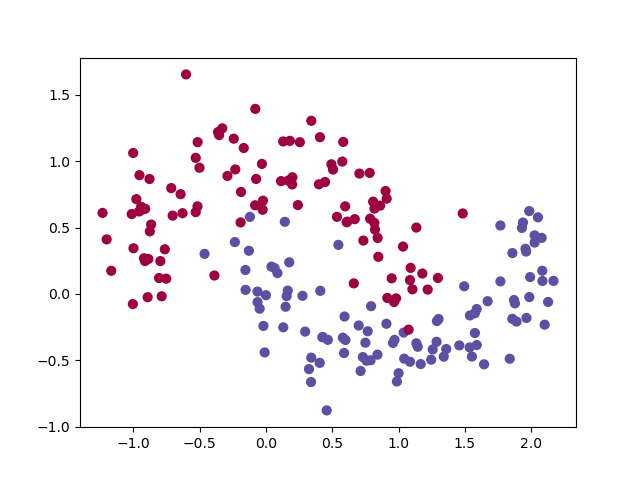
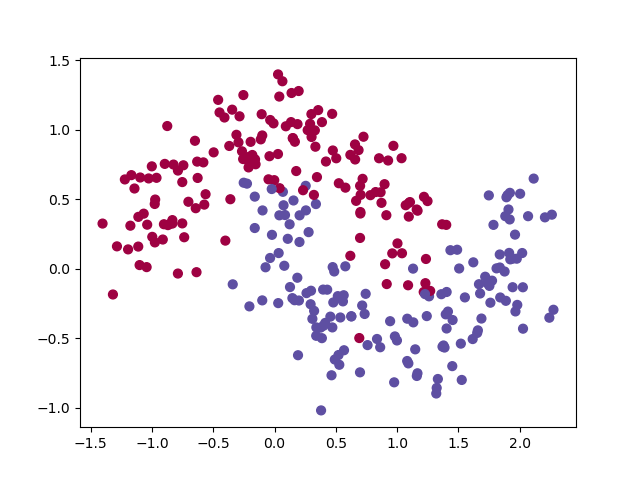
已经完成基础分类的代码

diff --git a/SimpleNetWork/BinaryClassificationNetWork.py b/SimpleNetWork/BinaryClassificationNetWork.py
@@ -3,13 +3,16 @@
 import matplotlib.pyplot as plt
 from sklearn.cluster import SpectralClustering
 import sklearn.datasets
+import numpy as np
 #搭建网络的包
 import torch
 import torch.nn as nn
 import torch.nn.functional as F
+#统计分数
+from sklearn.metrics import accuracy_score
 
-#生成200个点的数据集，返回的结果是一个包含两个元素的元组 (X, y),X是点，y是x的分类
-X, y =  sklearn.datasets.make_moons(200, noise=0.2)
+#生成300个点的数据集，返回的结果是一个包含两个元素的元组 (X, y),X是点，y是x的分类
+X, y =  sklearn.datasets.make_moons(300, noise=0.2)
 
 save_path = "/data/wangweicheng/ModelLearning/SimpleNetWork"
 plt.scatter(X[:,0],X[:,1],s=40,c=y,cmap=plt.cm.Spectral)
@@ -37,17 +40,19 @@ class BinaryClassifier(nn.Module):
         x = self.output(x)
         return x
     
-
-     #This function takes an input and predicts the class, (0 or 1)        
+      
     def predict(self,x):
-        #Apply softmax to output
-        pred = F.softmax(self.forward(x))
+        #训练好之后，重新将x输入到网络中，进行测试
+        #softmax得到0到1的一个值
+        pred = F.softmax(self.forward(x),dim=1)
         ans = []
+        #对不同点分别进行判断，如果第一个位置的数值大于第二个位置，就返回0，反之返回1
         for t in pred:
             if t[0]>t[1]:
                 ans.append(0)
             else:
                 ans.append(1)
+        return torch.tensor(ans)
 
 
 #初始化模型
@@ -59,7 +64,7 @@ loss_criterion = nn.CrossEntropyLoss()
 optimizer = torch.optim.Adam(model.parameters(), lr = 0.01)
 
 #训练的次数
-epochs = 10
+epochs = 5000
 #存储loss
 losses = []
 
@@ -76,7 +81,34 @@ for i in range(epochs):
     loss.backward()
     #梯度优化
     optimizer.step()
+    if(i % 500 == 0):
+        print('loss: {:.4f}'.format(loss.item()))
 
 
-from sklearn.metrics import accuracy_score
+#进行预测
 print(accuracy_score(model.predict(X),y))
+
+def predict(x):
+    x = torch.from_numpy(x).type(torch.FloatTensor)
+    ans = model.predict(x)
+    return ans.numpy()
+    
+# 画出边框
+def plot_decision_boundary(pred_func,X,y):
+    # 找到x，y的最大和最小值，并填充一些边框
+    x_min, x_max = X[:, 0].min() - .5, X[:, 0].max() + .5
+    y_min, y_max = X[:, 1].min() - .5, X[:, 1].max() + .5
+    h = 0.01
+    # 生成一个网格
+    xx,yy=np.meshgrid(np.arange(x_min, x_max, h), np.arange(y_min, y_max, h))
+    # 将两个展平后的一维数组 xx.ravel() 和 yy.ravel() 按列连接起来，生成一个二维数组，然后对这个点进行预测
+    Z = pred_func(np.c_[xx.ravel(), yy.ravel()])
+    # 将预测结果 Z 重塑为与点网格 xx 相同的形状
+    Z = Z.reshape(xx.shape)
+    # 画出图像，绘制等高线图的代码
+    plt.contourf(xx, yy, Z, cmap=plt.cm.YlGnBu)
+    plt.scatter(X[:, 0], X[:, 1], c=y, cmap=plt.cm.binary)
+    plt.savefig(f'{save_path}/dataout.png')
+    
+    
+plot_decision_boundary(lambda x : predict(x) ,X.numpy(), y.numpy())
